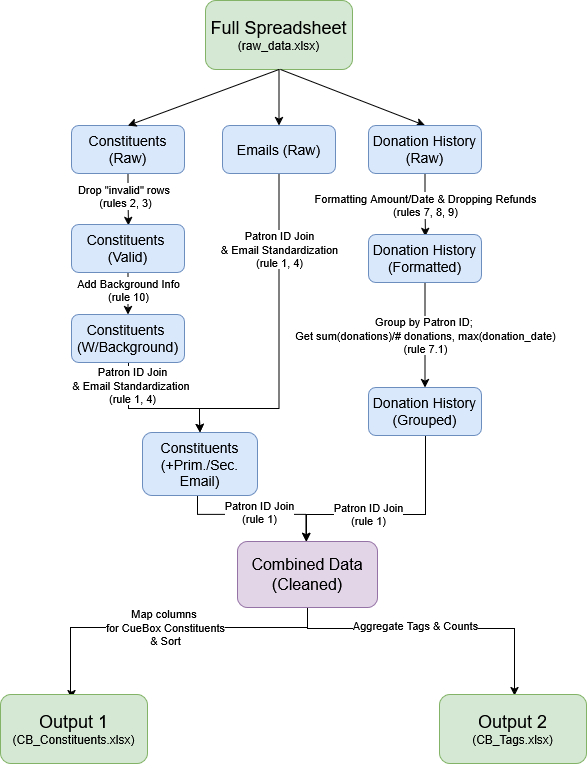
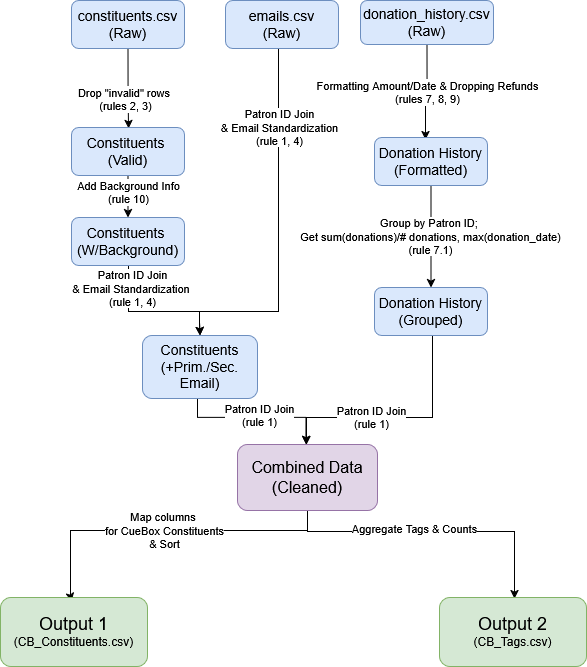
fix: updated diagram

diff --git a/scripts/data_cleaning.py b/scripts/data_cleaning.py
@@ -91,14 +91,28 @@ def constituents_processing(const_df):
 
 """
 Overview:
-Cleans/formats the data from the "" subsheet
+Cleans/formats the data from the "Donation History" subsheet
 
 Parameters:
-- const_df (df): Original "Constituents" dataframe
+- donations_df (df): Original "Donation History" dataframe
 
 Returns:
-- const_df (df): Cleaned dataframe
+- donations_df (df): Cleaned dataframe
 """
+def donation_history_processing(donations_df):
+    print("PROCESSING DONATION HISTORY....")
+    ##########
+    # Dropping refunds
+    ##########
+
+    ##########
+    # Formatting Amount/Date
+    ##########
+
+    
+
+    print("DONATION HISTORY DATA CLEANED!")
+    return donations_df
 
 ###########
 # HELPER FUNCTIONS
